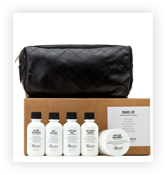
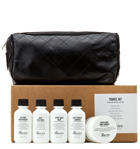
Barbershop
1. Изменил css правило в style.css
2. Вырезал фотографии без тени для страницы товара
3. Изменил  название фотографии BORODISNKI Logo на borodisnki_logo

diff --git a/css/style.css b/css/style.css
@@ -1,20 +1,20 @@
 body {
    font-size: 14px;
    line-height: 24px;
-   font-color: #000000;
+   color: #000000;
    font-weight: bold;
 }
 
 h1 {
 	font-size: 30px;
 	line-height: 36px;
-	font-color: #000000;
+	color: #000000;
 	font-weight: bold;
 }
 
 h2 {
 	font-size: 30px;
 	line-height: 36px;
-	font-color: #000000;
-	font-weight: bold;;
+	color: #000000;
+	font-weight: bold;
 }
